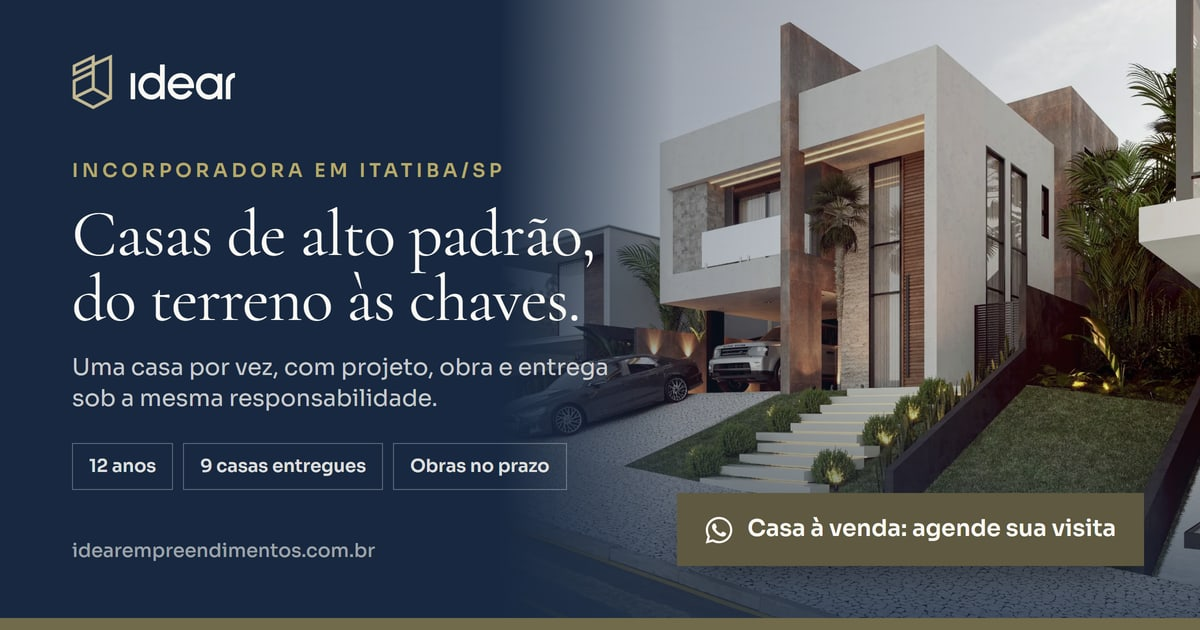
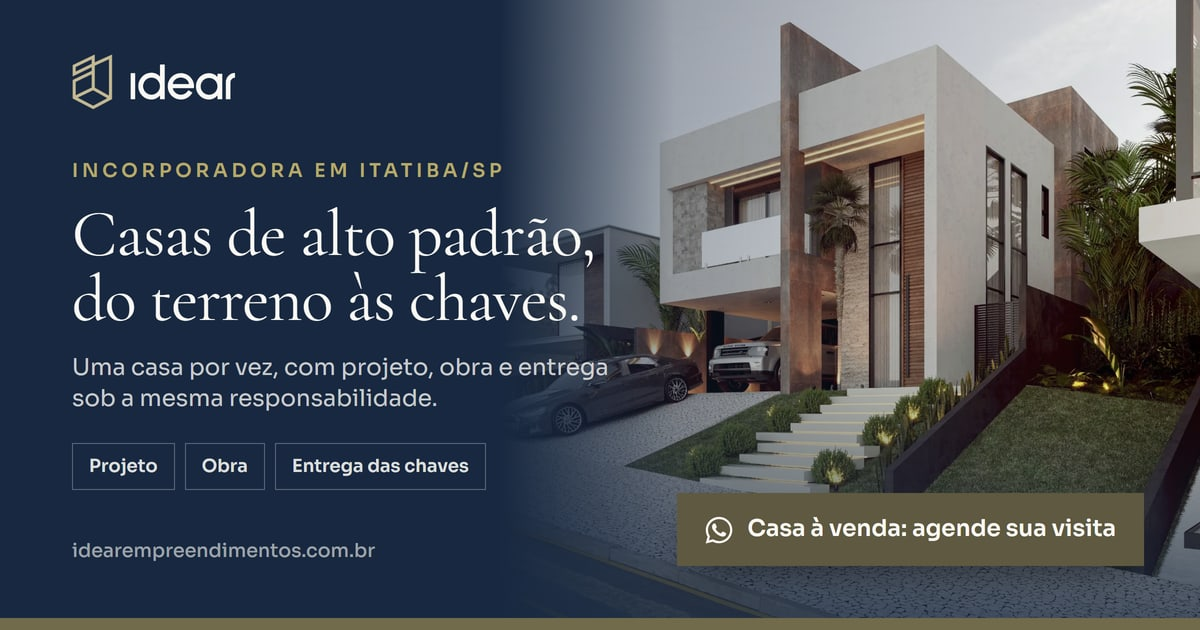
Remove todo conteúdo provisório do site
- Casas entregues de exemplo removidas; a seção e os links somem enquanto
  não houver casas reais cadastradas
- Números da empresa (anos, casas, m², obras no prazo) removidos do hero,
  da seção A Idear e da capa de compartilhamento
- Prazos das etapas e perguntas com dados não confirmados retirados do FAQ;
  nova pergunta com a previsão de entrega da casa
- Fim do selo "Prévia com dados provisórios" e do aviso de valores provisórios
- Site liberado para indexação nos buscadores

Changed region(s): [[0.0617, 0.7238, 0.4625, 0.754]]

diff --git a/content/empresa.ts b/content/empresa.ts
@@ -1,8 +1,8 @@
 /**
  * Conteúdo institucional da Idear.
  *
- * PRÉVIA: números, valores, entregas, perguntas e textos abaixo foram criados para a prévia
- * e precisam ser confirmados ou substituídos pelo cliente antes de ir ao ar.
+ * Só entra aqui o que o cliente confirmou. Números da empresa, casas entregues e prazos
+ * da obra ficam vazios até o Daniel passar os dados reais: listas vazias não aparecem no site.
  */
 
 const BASE = "/images/casa";
@@ -22,7 +22,7 @@ export type Entrega = {
 };
 
 export const empresa = {
-  provisorio: true,
+  provisorio: false,
   cidade: "Itatiba",
 
   hero: {
@@ -36,19 +36,14 @@ export const empresa = {
     "Uma casa por vez",
     "Projeto, obra e entrega",
     "Materiais que duram",
-    "Obras entregues no prazo",
-    "Assistência depois das chaves",
+    "Do terreno às chaves",
   ],
 
   manifesto:
     "Construímos poucas casas, e cada uma delas do começo ao fim. Escolhemos o terreno, desenhamos o projeto com quem vai morar em mente e acompanhamos a obra até a entrega das chaves.",
 
-  numeros: [
-    { valor: 12, sufixo: "", rotulo: "anos construindo casas" },
-    { valor: 9, sufixo: "", rotulo: "casas entregues" },
-    { valor: 2800, sufixo: " m²", rotulo: "de área construída" },
-    { valor: 100, sufixo: "%", rotulo: "das obras entregues no prazo" },
-  ],
+  /** Ex.: { valor: 12, sufixo: "", rotulo: "anos construindo casas" }. Vazio até o cliente confirmar. */
+  numeros: [] as { valor: number; sufixo: string; rotulo: string }[],
 
   valores: [
     {
@@ -72,78 +67,38 @@ export const empresa = {
   processo: [
     {
       titulo: "Terreno",
-      prazo: "1 a 2 meses",
+      prazo: "",
       texto: "Escolhemos o lote pela rua, pela orientação solar e pela vizinhança. Estudamos o solo e a legislação antes de qualquer traço.",
       imagem: `${BASE}/fachada-perspectiva.webp`,
     },
     {
       titulo: "Projeto",
-      prazo: "3 a 4 meses",
+      prazo: "",
       texto: "Arquitetura, estrutura, instalações e interiores desenvolvidos juntos, com memorial descritivo de cada material.",
       imagem: `${BASE}/jantar.webp`,
     },
     {
       titulo: "Obra",
-      prazo: "12 a 16 meses",
-      texto: "Equipe com responsável técnico em todas as etapas e relatórios mensais com fotos para quem já comprou.",
+      prazo: "",
+      texto: "Obra acompanhada por responsável técnico em todas as etapas, com o comprador informado do andamento.",
       imagem: `${BASE}/gourmet-churrasqueira.webp`,
     },
     {
       titulo: "Entrega",
-      prazo: "Chaves na mão",
-      texto: "Vistoria com o comprador, habite-se, manual do proprietário e assistência técnica depois da mudança.",
+      prazo: "",
+      texto: "Vistoria com o comprador, habite-se e manual do proprietário na entrega das chaves.",
       imagem: `${BASE}/suite-principal.webp`,
     },
   ],
 
-  /** Casas entregues (exemplos para a prévia; trocar pelas casas reais com fotos reais) */
-  entregas: [
-    {
-      slug: "casa-2024",
-      bairro: "[Bairro]",
-      cidade: "Itatiba",
-      ano: "2024",
-      area: 285,
-      suites: 3,
-      meses: 14,
-      descricao: "Térrea, com pátio central e área gourmet aberta para o jardim e a piscina.",
-      destaques: ["Casa térrea", "Pátio central", "Piscina aquecida"],
-      imagem: `${BASE}/piscina.webp`,
-      alt: "Área externa com piscina e deck de madeira",
-    },
-    {
-      slug: "casa-2022",
-      bairro: "[Bairro]",
-      cidade: "Itatiba",
-      ano: "2022",
-      area: 340,
-      suites: 4,
-      meses: 16,
-      descricao: "Dois pavimentos, pé-direito duplo na sala e suítes voltadas para o nascente.",
-      destaques: ["Pé-direito duplo", "Suítes ao nascente", "Escritório"],
-      imagem: `${BASE}/estar-pe-direito.webp`,
-      alt: "Sala com pé-direito duplo e janelas altas",
-    },
-    {
-      slug: "casa-2019",
-      bairro: "[Bairro]",
-      cidade: "Itatiba",
-      ano: "2019",
-      area: 260,
-      suites: 3,
-      meses: 13,
-      descricao: "Volumes em concreto e madeira, cozinha integrada e jardim de inverno.",
-      destaques: ["Cozinha integrada", "Jardim de inverno", "Concreto aparente"],
-      imagem: `${BASE}/cozinha.webp`,
-      alt: "Cozinha com ilha em porcelanato e mesa de madeira",
-    },
-  ] as Entrega[],
+  /** Casas entregues pela Idear, com fotos reais. Vazio até o cliente enviar; a seção some do site enquanto estiver vazia. */
+  entregas: [] as Entrega[],
 
   faq: [
     {
       pergunta: "Como funciona a compra de uma casa da Idear?",
       resposta:
-        "Você agenda uma visita, conhece a casa com a nossa equipe e recebe o memorial descritivo e as condições. A compra é feita direto com a Idear, com contrato registrado e acompanhamento até a entrega das chaves.",
+        "Você agenda uma visita pelo WhatsApp, conhece a casa com a nossa equipe e recebe o memorial descritivo e as condições de compra.",
     },
     {
       pergunta: "Posso visitar a casa antes de comprar?",
@@ -151,9 +106,8 @@ export const empresa = {
         "Sim. As visitas são feitas com hora marcada, de segunda a sábado. Agende pelo WhatsApp e confirmamos o horário com você.",
     },
     {
-      pergunta: "A casa pode ser financiada?",
-      resposta:
-        "Sim. A casa aceita financiamento bancário, e nossa equipe orienta sobre a documentação. Também avaliamos propostas com imóvel na negociação.",
+      pergunta: "Quais são as formas de pagamento?",
+      resposta: "Fale com a gente pelo WhatsApp: enviamos os valores e as condições de compra da casa.",
     },
     {
       pergunta: "A casa é entregue mobiliada?",
@@ -161,19 +115,13 @@ export const empresa = {
         "Não. A casa é entregue com revestimentos nos banheiros, louças e metais. Os móveis, a marcenaria, os eletrodomésticos e a decoração que aparecem nas imagens são sugestões de ambientação, para mostrar o que dá para fazer em cada espaço.",
     },
     {
-      pergunta: "Posso personalizar acabamentos?",
-      resposta:
-        "Quando a casa é comprada durante a obra, é possível escolher acabamentos dentro de opções pré-aprovadas, até a etapa de revestimentos. Com a casa pronta, ela é entregue como foi especificada.",
-    },
-    {
-      pergunta: "Quanto tempo leva uma obra da Idear?",
-      resposta:
-        "Em média de 12 a 16 meses, do início da fundação à entrega. Quem compra durante a obra recebe relatórios mensais com fotos de cada etapa.",
+      pergunta: "Quando a casa fica pronta?",
+      resposta: "A previsão de entrega é março de 2027.",
     },
     {
       pergunta: "Qual é a garantia depois da entrega?",
       resposta:
-        "A casa tem garantia de solidez e segurança da construção por 5 anos, conforme o Código Civil, além dos prazos de garantia de cada sistema descritos no manual do proprietário. Nossa assistência técnica atende depois da mudança.",
+        "A casa tem garantia de solidez e segurança da construção por 5 anos, conforme o Código Civil, além dos prazos de garantia de cada sistema descritos no manual do proprietário.",
     },
     {
       pergunta: "Vocês constroem em outras regiões?",

diff --git a/components/Idear.tsx b/components/Idear.tsx
@@ -31,7 +31,7 @@ export default function Idear() {
             <div className="absolute inset-x-0 -top-[7%] h-[114%]" data-img-parallax>
               <Image quality={90}
                 src="/images/casa/fachada-perspectiva.webp"
-                alt="Fachada de casa construída pela Idear, com volumes brancos e revestimento metálico"
+                alt="Fachada da casa da Idear à venda no Ecologie Residencial, com volumes brancos e revestimento metálico"
                 fill
                 sizes="(min-width: 1328px) 1280px, 100vw"
                 className="object-cover object-[50%_40%]"
@@ -41,6 +41,7 @@ export default function Idear() {
           <span className="legenda-ilustrativa">Imagem ilustrativa</span>
         </div>
 
+        {empresa.numeros.length ? (
         <dl className="grid grid-cols-2 gap-y-8 pt-10 lg:grid-cols-4 lg:pt-14">
           {empresa.numeros.map((n, i) => (
             <div key={n.rotulo} className={`relative flex flex-col-reverse justify-end pt-5 ${i % 2 ? "pl-5" : "pr-5"} lg:px-8 lg:first:pl-0`}>
@@ -55,6 +56,7 @@ export default function Idear() {
             </div>
           ))}
         </dl>
+        ) : null}
       </div>
 
       {/* Valores em faixa azul-marinho */}

diff --git a/components/Rodape.tsx b/components/Rodape.tsx
@@ -1,5 +1,6 @@
 import { LogoEmpilhado } from "./Logo";
 import { linkWhatsApp, site } from "@/lib/site";
+import { empresa } from "@/content/empresa";
 
 export default function Rodape() {
   const ano = new Date().getFullYear();
@@ -38,11 +39,13 @@ export default function Rodape() {
                 Casa à venda
               </a>
             </li>
-            <li>
-              <a href="/#casas-entregues" className="link-line">
-                Casas entregues
-              </a>
-            </li>
+            {empresa.entregas.length ? (
+              <li>
+                <a href="/#casas-entregues" className="link-line">
+                  Casas entregues
+                </a>
+              </li>
+            ) : null}
             <li>
               <a href="/#a-idear" className="link-line">
                 A Idear

diff --git a/app/og-cover/page.tsx b/app/og-cover/page.tsx
@@ -25,11 +25,11 @@ export default function OgCover() {
       titulo="Casas de alto padrão, do terreno às chaves."
       tamanhoTitulo={66}
       subtitulo="Uma casa por vez, com projeto, obra e entrega sob a mesma responsabilidade."
-      itens={[
-        anos ? `${anos.valor} anos` : "",
-        casas ? `${casas.valor} casas entregues` : "",
-        "Obras no prazo",
-      ].filter(Boolean)}
+      itens={
+        anos || casas
+          ? [anos ? `${anos.valor} anos` : "", casas ? `${casas.valor} casas entregues` : ""].filter(Boolean)
+          : ["Projeto", "Obra", "Entrega das chaves"]
+      }
       acao="Casa à venda: agende sua visita"
     />
   );

diff --git a/components/Processo.tsx b/components/Processo.tsx
@@ -53,7 +53,7 @@ export default function Processo() {
                 Etapa {String(i + 1).padStart(2, "0")}
               </p>
               <h3 className="display mt-3 text-[44px] md:text-[80px] lg:mt-4">{e.titulo}</h3>
-              <p className="mt-3 text-[15px] font-semibold text-bronze-dark">{e.prazo}</p>
+              {e.prazo ? <p className="mt-3 text-[15px] font-semibold text-bronze-dark">{e.prazo}</p> : null}
               <p className="mt-5 max-w-[40ch] text-stone">{e.texto}</p>
               {/* No celular, cada etapa mostra a própria foto */}
               <div className="relative mt-6 aspect-[16/9] overflow-hidden lg:hidden" data-reveal-image>

diff --git a/components/HeroEmpresa.tsx b/components/HeroEmpresa.tsx
@@ -55,6 +55,7 @@ export default function HeroEmpresa() {
           </div>
 
           {/* Números da empresa: em linha no celular, em painel de vidro no desktop */}
+          {numeros.length ? (
           <dl
             className="col-span-4 grid grid-cols-3 border-t border-ivory/25 md:col-span-12 lg:col-span-3 lg:col-start-10 lg:grid-cols-1 lg:border-t-0 lg:bg-navy-deep/35 lg:backdrop-blur-md"
             aria-label="A Idear em números"
@@ -77,6 +78,7 @@ export default function HeroEmpresa() {
               </div>
             ))}
           </dl>
+          ) : null}
         </div>
       </div>
     </section>

diff --git a/components/Header.tsx b/components/Header.tsx
@@ -5,11 +5,12 @@ import { useEffect, useRef, useState } from "react";
 import { LogoHorizontal } from "./Logo";
 import { linkWhatsApp, site } from "@/lib/site";
 import { casaAtual } from "@/content/casas";
+import { empresa } from "@/content/empresa";
 
 const NAV = [
   { href: "/#a-idear", rotulo: "A Idear" },
   { href: "/#processo", rotulo: "Como construímos" },
-  { href: "/#casas-entregues", rotulo: "Casas entregues" },
+  ...(empresa.entregas.length ? [{ href: "/#casas-entregues", rotulo: "Casas entregues" }] : []),
 ];
 
 type Props = {

diff --git a/app/casa-a-venda/page.tsx b/app/casa-a-venda/page.tsx
@@ -81,7 +81,7 @@ export default function CasaAVenda() {
           <div className="container-idear flex flex-col gap-4 py-12 md:flex-row md:items-center md:justify-between">
             <p className="font-serif text-[26px] md:text-[32px]">Conheça também quem constrói.</p>
             <Link href="/" className="btn-outline self-start">
-              A Idear e as casas entregues
+              Conheça a Idear
             </Link>
           </div>
         </nav>

diff --git a/components/CasasEntregues.tsx b/components/CasasEntregues.tsx
@@ -58,6 +58,9 @@ export default function CasasEntregues() {
     return () => el.removeEventListener("scroll", onScroll);
   }, []);
 
+  // Sem casas entregues cadastradas, a seção não aparece
+  if (!entregas.length) return null;
+
   return (
     <section id="casas-entregues" aria-labelledby="entregues-titulo" className="bg-ivory py-20 lg:py-36">
       <div className="container-idear">

diff --git a/content/casas.ts b/content/casas.ts
@@ -88,7 +88,7 @@ export const casaAtual: CasaAtual = {
   bairro: "Ecologie Residencial",
   cidade: "Itatiba",
   uf: "SP",
-  provisorio: true,
+  provisorio: false,
   titulo: "Vista para a mata, espaço e acabamento de alto padrão.",
   resumo: { area: 240, suites: 3, vagas: 4 },
   apresentacao: [
